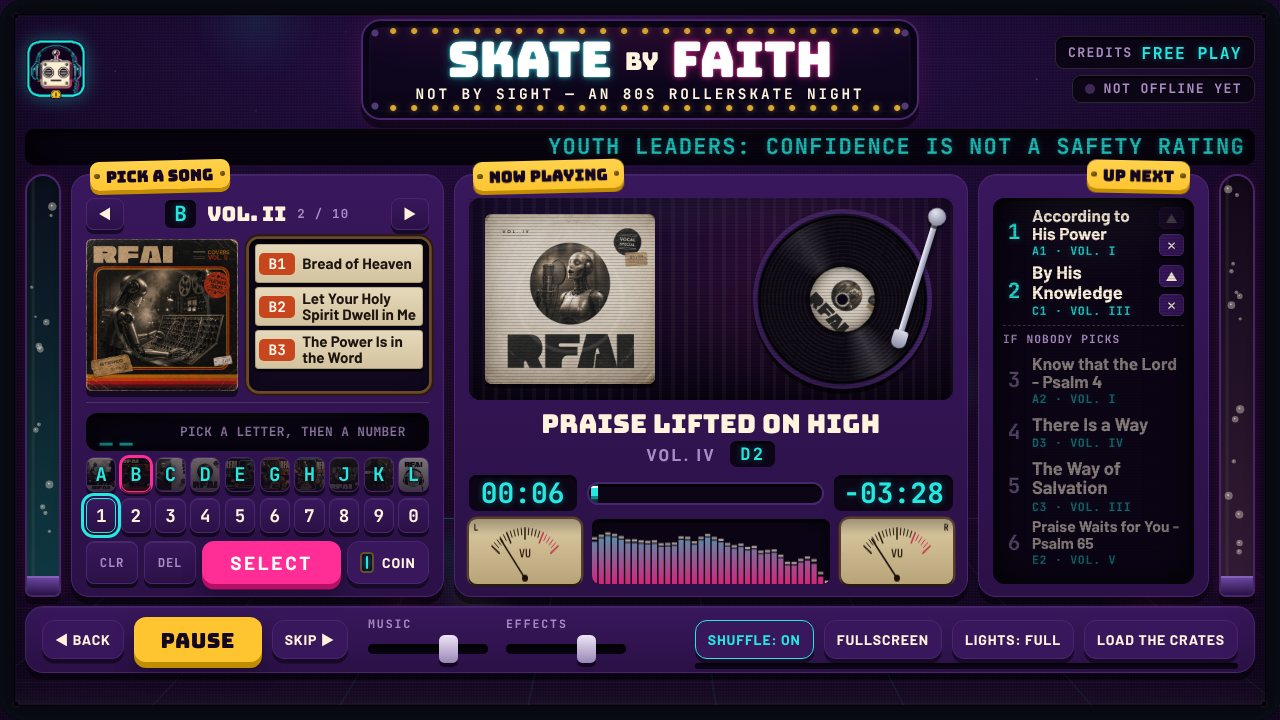
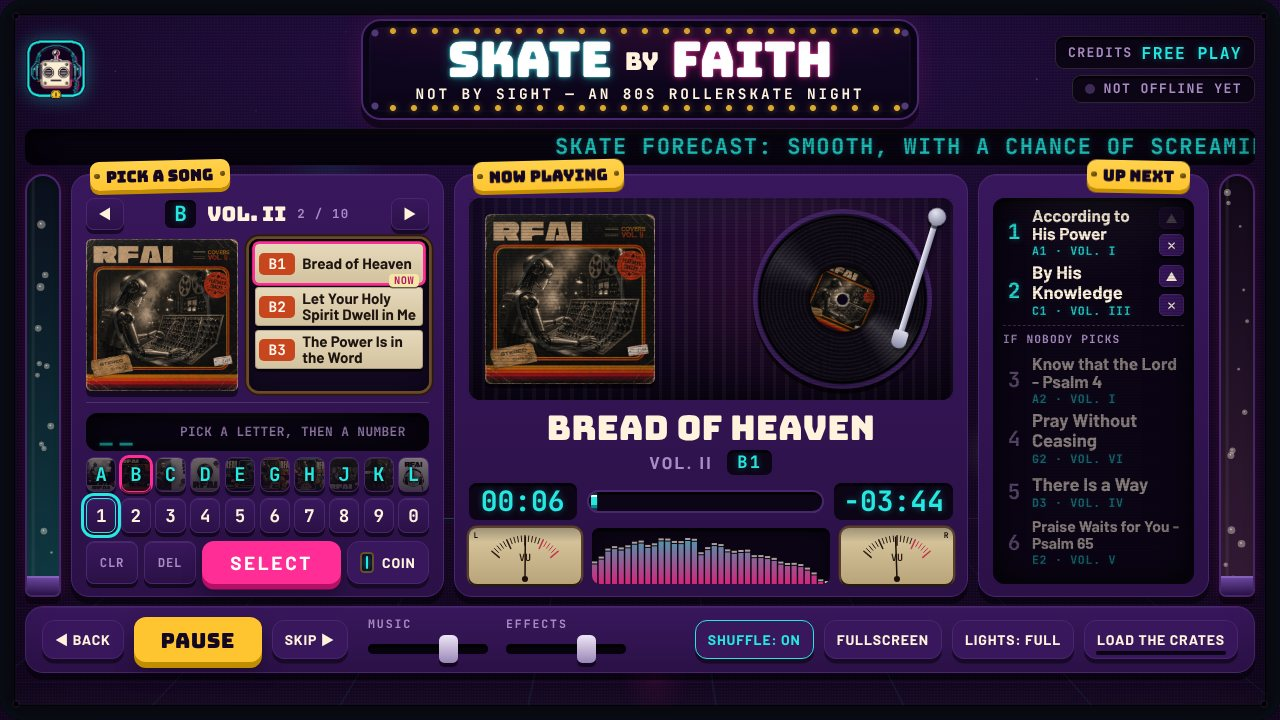
feat: livelier VU needles, flicker crackle, tidy crates meter
- VU meters read loudness in decibels from float samples, with the MUSIC
  slider taken back out (vuLevel in dsp.js). A typical song now sits just
  right of centre and swings with the beat at any volume, instead of
  barely leaving the stop.
- The screen flicker carries a faint electrical crackle, one per dip
  (sfx.flicker, or sfx/flicker.mp3 if supplied).
- The LOAD THE CRATES meter is a thin strip set into the foot of that
  button instead of a bar under the whole button row.

Claude-Session: https://claude.ai/code/session_019UepSTK4gBiwDTjkX8XKsc

diff --git a/visualiser.js b/visualiser.js
@@ -24,7 +24,7 @@
      - Every draw is wrapped: an error in one effect switches that effect
        off quietly instead of reaching the music.
    ============================================================ */
-import { groupBands, rmsFromTimeDomain, createEnvelope, createBeatGate } from './dsp.js';
+import { groupBands, rmsFromFloat, vuLevel, createEnvelope, createBeatGate } from './dsp.js';
 import { getEngine } from './audio.js';
 import { isCalm, onCalmChange, safely } from './fx.js';
 import { clamp } from './format.js';
@@ -70,8 +70,8 @@ export function createVisualiser() {
   const $ = (id) => document.getElementById(id);
   const engine = getEngine();
   const freq = engine ? new Uint8Array(engine.analyser.frequencyBinCount) : new Uint8Array(0);
-  const timeL = engine ? new Uint8Array(engine.analyserL.fftSize) : new Uint8Array(0);
-  const timeR = engine ? new Uint8Array(engine.analyserR.fftSize) : new Uint8Array(0);
+  const timeL = engine ? new Float32Array(engine.analyserL.fftSize) : new Float32Array(0);
+  const timeR = engine ? new Float32Array(engine.analyserR.fftSize) : new Float32Array(0);
 
   // ---- element handles
   const glow = $('cab-glow');
@@ -82,7 +82,7 @@ export function createVisualiser() {
   // ---- smoothing state
   const bassEnv = createEnvelope({ attackMs: 140, releaseMs: 420 });
   const energyEnv = createEnvelope({ attackMs: 200, releaseMs: 900 });
-  const vuEnv = [createEnvelope({ attackMs: 70, releaseMs: 380 }), createEnvelope({ attackMs: 70, releaseMs: 380 })];
+  const vuEnv = [createEnvelope({ attackMs: 60, releaseMs: 300 }), createEnvelope({ attackMs: 60, releaseMs: 300 })];   // about a real VU's 300 ms
   const kickGate = createBeatGate({ minGapMs: 340 });
   let bassAvg = 0;
   let kickUntil = 0;
@@ -286,11 +286,12 @@ export function createVisualiser() {
     let rmsR = 0;
     if (engine) {
       engine.analyser.getByteFrequencyData(freq);
-      engine.analyserL.getByteTimeDomainData(timeL);
-      engine.analyserR.getByteTimeDomainData(timeR);
+      engine.analyserL.getFloatTimeDomainData(timeL);
+      engine.analyserR.getFloatTimeDomainData(timeR);
       levels = groupBands(freq, BAR_COUNT);
-      rmsL = rmsFromTimeDomain(timeL);
-      rmsR = rmsFromTimeDomain(timeR);
+      const gain = engine.musicBus.gain.value;
+      rmsL = vuLevel(rmsFromFloat(timeL), gain);
+      rmsR = vuLevel(rmsFromFloat(timeR), gain);
     }
     let bass = 0;
     let total = 0;
@@ -310,8 +311,8 @@ export function createVisualiser() {
     // 3. draw (each guarded)
     safely('spectrum', () => drawSpectrum(levels, step));
     safely('vu', () => {
-      drawVu(vus[0], vuEnv[0].step(Math.pow(rmsL, 0.7) * 1.25, step), 'L');
-      drawVu(vus[1], vuEnv[1].step(Math.pow(rmsR, 0.7) * 1.25, step), 'R');
+      drawVu(vus[0], vuEnv[0].step(rmsL, step), 'L');
+      drawVu(vus[1], vuEnv[1].step(rmsR, step), 'R');
     });
     let tubeCol = null;
     safely('tubes', () => {

diff --git a/styles.css b/styles.css
@@ -710,7 +710,7 @@ body.on-attract .rig{ visibility:hidden; }
 }
 .deck-group{ display:flex; align-items:center; gap:.5rem; }
 .deck-faders{ gap:.9rem; }
-.deck-tools{ margin-left:auto; position:relative; }
+.deck-tools{ margin-left:auto; }
 .fader{ display:grid; gap:.2rem; font:700 .58rem var(--font-mono); letter-spacing:.16em; text-transform:uppercase; color:var(--dim); }
 input[type="range"]{ -webkit-appearance:none; appearance:none; width:6rem; height:1.4rem; margin:0; background:transparent; cursor:pointer; }
 input[type="range"]::-webkit-slider-runnable-track{ height:.5rem; border-radius:.3rem; background:var(--screen); box-shadow:var(--inset); }
@@ -720,7 +720,10 @@ input[type="range"]::-webkit-slider-thumb{
 }
 input[type="range"]::-moz-range-track{ height:.5rem; border-radius:.3rem; background:var(--screen); box-shadow:var(--inset); }
 input[type="range"]::-moz-range-thumb{ width:.95rem; height:1.4rem; border:0; border-radius:.28rem; background:linear-gradient(180deg,#EEE6F6,#9A86B8); box-shadow:0 .2rem 0 rgba(0,0,0,.55); }
-.crate-meter{ position:absolute; left:0; right:0; bottom:-.5rem; height:.32rem; border-radius:.2rem; background:var(--screen); overflow:hidden; box-shadow:inset 0 .08rem 0 rgba(0,0,0,.6); }
+/* the save meter is a thin LED strip set into the foot of the LOAD THE CRATES
+   button itself, so it lines up with nothing else and crowds nothing */
+.crate-unit{ position:relative; display:inline-flex; }
+.crate-meter{ position:absolute; left:.6rem; right:.6rem; bottom:.22rem; height:.18rem; border-radius:.1rem; background:var(--screen); overflow:hidden; pointer-events:none; box-shadow:inset 0 .05rem 0 rgba(0,0,0,.6); }
 .crate-meter i{ display:block; height:100%; transform:scaleX(0); transform-origin:left; background:var(--cyan); box-shadow:0 0 .5rem var(--cyan); transition:transform .3s linear; }
 
 /* ================= LEGEND, TOAST, MODAL ================= */

diff --git a/sound.js b/sound.js
@@ -10,17 +10,19 @@
      whirr    the record mechanism moving (gear sweep)
      thud     the needle dropping onto the record
      buzz     something is OUT OF ORDER / refused (low rude buzz)
+     flicker  the screen dipping (a faint electrical crackle)
 
    Your own recordings: put an MP3 named after the effect in the sfx/
    folder (sfx/coin.mp3, sfx/key.mp3, sfx/confirm.mp3, sfx/whirr.mp3,
-   sfx/thud.mp3, sfx/buzz.mp3) and it plays instead of the built-in sound.
+   sfx/thud.mp3, sfx/buzz.mp3, sfx/flicker.mp3) and it plays instead of the
+   built-in sound.
    Any effect without a file keeps the built-in one.
 
    Every effect is wrapped so a sound failure can never stop the music.
    ============================================================ */
 import { getEngine } from './audio.js';
 
-export const SFX_NAMES = ['coin', 'key', 'confirm', 'whirr', 'thud', 'buzz'];
+export const SFX_NAMES = ['coin', 'key', 'confirm', 'whirr', 'thud', 'buzz', 'flicker'];
 const rawFiles = new Map();      // name -> the MP3's bytes (fetched at page load)
 const buffers = new Map();       // name -> decoded sound, ready to play
 let fetching = null;
@@ -161,5 +163,16 @@ export const sfx = {
     if (playFile('buzz')) return;
     tone({ freq: 120, to: 54, type: 'sawtooth', dur: 0.32, peak: 0.3 });
     tone({ freq: 62, to: 44, type: 'square', dur: 0.32, peak: 0.2 });
+  }),
+
+  // Quiet on purpose: the room should half-notice it, never be startled.
+  flicker: safe((dipStartsMs = [0]) => {
+    if (playFile('flicker')) return;
+    for (const ms of dipStartsMs) {
+      const at = ms / 1000;
+      thump({ freq: 3400, dur: 0.035, peak: 0.07, at });                          // the spark
+      tone({ freq: 118, to: 96, type: 'sawtooth', dur: 0.14, peak: 0.035, at });  // mains hum sagging
+      thump({ freq: 900, dur: 0.06, peak: 0.04, at: at + 0.03 });
+    }
   }),
 };

diff --git a/dsp.js b/dsp.js
@@ -44,6 +44,30 @@ export function rmsFromTimeDomain(bytes) {
   return Math.min(1, Math.sqrt(sum / n));
 }
 
+/* Same, from the analyser's float samples (-1..1): finer than 8-bit bytes,
+   which matters for the quiet passages a VU needle should still show. */
+export function rmsFromFloat(samples) {
+  const n = samples.length;
+  if (n === 0) return 0;
+  let sum = 0;
+  for (let i = 0; i < n; i++) sum += samples[i] * samples[i];
+  return Math.min(1, Math.sqrt(sum / n));
+}
+
+/* Where a VU needle sits (0 = far left, 1 = pinned right) for a loudness.
+   Read on a decibel scale like a real meter, with the MUSIC slider taken back
+   out (the analyser listens after it), so the needles swing the same at any
+   volume. Typical mastered songs average about -18 dBFS: that lands near the
+   middle of the scale, and the loud beats push into the red. */
+export const VU_FLOOR_DB = -30;
+export const VU_TOP_DB = -12;
+export function vuLevel(rms, busGain = 1) {
+  const level = rms / Math.max(busGain, 0.05);
+  if (!(level > 0)) return 0;
+  const db = 20 * Math.log10(level);
+  return Math.min(1, Math.max(0, (db - VU_FLOOR_DB) / (VU_TOP_DB - VU_FLOOR_DB)));
+}
+
 /* A follower that rises quickly and falls slowly, like a VU meter. */
 export function createEnvelope({ attackMs, releaseMs }) {
   let value = 0;

diff --git a/lights.js b/lights.js
@@ -37,10 +37,12 @@ export function planFlicker(rng = Math.random) {
   const between = (lo, hi) => lo + rng() * (hi - lo);
   const dips = rng() < 0.45 ? 2 : 1;
   const steps = [{ t: 0, o: 0 }];
+  const dipStartsMs = [];
   let t = 0;
   for (let i = 0; i < dips; i++) {
     if (i > 0) { t += between(110, 190); steps.push({ t, o: 0 }); }   // back on briefly between the two dips
     const depth = between(0.3, FLICKER.maxDim);
+    dipStartsMs.push(Math.round(t));
     t += 45; steps.push({ t, o: depth });               // drop
     t += between(30, 160); steps.push({ t, o: depth * 0.8 });   // hold (a long hold reads as the screen blinking off)
     t += 70; steps.push({ t, o: 0 });                   // recover
@@ -48,6 +50,7 @@ export function planFlicker(rng = Math.random) {
   const duration = Math.round(t);
   return {
     dips,
+    dipStartsMs,                                       // when each dip begins (for the electrical crackle)
     duration,
     keyframes: steps.map((s) => ({ opacity: Number(s.o.toFixed(3)), offset: t ? s.t / t : 0 })),
     nextInMs: Math.round(between(FLICKER.minGapMs, FLICKER.maxGapMs)),

diff --git a/index.html b/index.html
@@ -185,8 +185,10 @@
       <button type="button" class="btn btn-deck" id="btn-shuffle" aria-pressed="true" title="Shuffle: every song plays once before any repeats (S). Off = play in the order of tracks.js">SHUFFLE: ON</button>
       <button type="button" class="btn btn-deck" id="btn-fs" title="Fullscreen (F)">FULLSCREEN</button>
       <button type="button" class="btn btn-deck" id="btn-lights" aria-pressed="false">LIGHTS: FULL</button>
-      <button type="button" class="btn btn-deck" id="btn-crates">LOAD THE CRATES</button>
-      <div class="crate-meter" id="crate-meter" aria-hidden="true"><i id="crate-fill"></i></div>
+      <span class="crate-unit">
+        <button type="button" class="btn btn-deck" id="btn-crates">LOAD THE CRATES</button>
+        <span class="crate-meter" id="crate-meter" aria-hidden="true"><i id="crate-fill"></i></span>
+      </span>
     </div>
   </footer>
 

diff --git a/tests/dsp.test.js b/tests/dsp.test.js
@@ -84,3 +84,15 @@ test('slewTo limits how far a value can move per frame', () => {
   assert.equal(slewTo(1, 0, 0.1), 0.9);
   assert.equal(slewTo(0.5, 0.52, 0.1), 0.52);
 });
+
+test('vuLevel reads loudness in decibels and ignores the MUSIC slider', async () => {
+  const { vuLevel, rmsFromFloat } = await import('../dsp.js');
+  const at = (db) => 10 ** (db / 20);
+  assert.equal(vuLevel(0), 0);
+  assert.equal(vuLevel(at(-40)), 0, 'very quiet rests on the stop');
+  assert.ok(vuLevel(at(-18)) > 0.5 && vuLevel(at(-18)) < 0.75, 'a typical song sits just right of middle, like 0 VU');
+  assert.ok(vuLevel(at(-12)) > 0.8, 'loud beats reach the red');
+  assert.equal(vuLevel(at(-3)), 1);
+  assert.ok(Math.abs(vuLevel(at(-18) * 0.4, 0.4) - vuLevel(at(-18))) < 1e-9, 'same needle at any volume');
+  assert.ok(Math.abs(rmsFromFloat(new Float32Array([0.5, -0.5, 0.5, -0.5])) - 0.5) < 1e-9);
+});

diff --git a/fx.js b/fx.js
@@ -60,13 +60,15 @@ export const delay = (ms) => new Promise((r) => setTimeout(r, ms));
 
 /* The whole monitor dips now and then (planFlicker in lights.js holds the
    safety rules). Skipped in CALM and while the tab is hidden. */
-export function startScreenFlicker(layer) {
+export function startScreenFlicker(layer, { onBurst } = {}) {
   if (!layer || typeof layer.animate !== 'function') return;
   const next = () => {
     const plan = planFlicker();
     setTimeout(() => {
       safely('screen-flicker', () => {
-        if (!calm && !document.hidden) layer.animate(plan.keyframes, { duration: plan.duration, easing: 'linear' });
+        if (calm || document.hidden) return;
+        layer.animate(plan.keyframes, { duration: plan.duration, easing: 'linear' });
+        if (onBurst) onBurst(plan);
       });
       next();
     }, plan.nextInMs);

diff --git a/tests/safety.test.js b/tests/safety.test.js
@@ -47,6 +47,7 @@ test('the screen flicker is photosensitive-safe', async () => {
     const plan = planFlicker(rng);
     const peaks = plan.keyframes.filter((k) => k.opacity > 0);
     assert.ok(plan.dips >= 1 && plan.dips <= 2, 'one or two dips per burst');
+    assert.equal(plan.dipStartsMs.length, plan.dips, 'one crackle per dip');
     assert.ok(plan.duration < 1000, 'a burst is over within a second, so it holds at most 2 flashes');
     assert.ok(plan.nextInMs >= FLICKER.minGapMs, 'bursts are far apart');
     assert.ok(Math.max(...peaks.map((k) => k.opacity)) <= FLICKER.maxDim, 'never goes more than 60% dark');

diff --git a/app.js b/app.js
@@ -64,7 +64,7 @@ async function loadLibrary() {
 async function main() {
   initLights();
   preloadSfxFiles();                                 // any sfx/*.mp3 recordings, fetched early
-  safely('screen-flicker', () => startScreenFlicker(document.getElementById('crt-flicker')));
+  safely('screen-flicker', () => startScreenFlicker(document.getElementById('crt-flicker'), { onBurst: (plan) => sfx.flicker(plan.dipStartsMs) }));
   $('btn-lights').addEventListener('click', () => { flipLights(); sfx.key(); });
 
   // Boot overlay is opaque from first paint; the machine assembles behind it.

diff --git a/DESIGN.md b/DESIGN.md
@@ -26,13 +26,19 @@ else gets invented without extending this list first.
   recessed near-black CRT display for anything with a number or a queue on it.
   Inset shadow, scanlines and a curved-glass highlight. Numbers are
   `JetBrains Mono` tabular.
+- **VU meters** read loudness on a decibel scale like a real meter
+  (`vuLevel` in `dsp.js`: -30 dBFS at the left stop, -12 dBFS pinned right,
+  float samples, about 300 ms ballistics) with the MUSIC slider taken back out,
+  so a typical song sits just right of centre and the beats swing it at any
+  volume.
 - **Monitor glass** (`.crt-glass`, `.crt-flicker`) - effects of the projector
   "screen" itself, so they cover the whole page inside the bezel, never one
   panel at a time: one faint bright band rolling down the whole screen
   (`crt-roll`, 9 s), and now and then the whole screen dips like an old monitor
   on a tired supply (`startScreenFlicker` in `fx.js`, planned by `planFlicker`
   in `lights.js`): one or two dips, at most 60% darker, under a second, bursts
-  25-70 s apart, never in CALM.
+  25-70 s apart, never in CALM. Each dip carries a faint electrical crackle
+  (`sfx.flicker`).
 - **Title tab** (`.panel-title`, `.tab`) - a gold tab "screwed on" to the top
   edge of a panel at a slight tilt, alternating direction (`.tab-tilt-a` /
   `.tab-tilt-b`) so no two look mass-produced.
@@ -337,6 +343,7 @@ on INSERT COIN is the browser's required gesture.
 | `whirr` | The record mechanism moving |
 | `thud` | The needle lands on the record |
 | `buzz` | Something is out of order / refused |
+| `flicker` | The screen dips - a faint electrical crackle, one per dip, quiet on purpose |
 
 Do not reuse one for another moment, and do not add an effect without a
 one-sentence reason a skater would recognise.

diff --git a/README.md b/README.md
@@ -195,7 +195,7 @@ place; follow these steps only if you want to swap it for a new one.
 
 - [ ] Open the site in **Google Chrome** (best supported).
 - [ ] Press **INSERT COIN** (click it, or press any key).
-- [ ] Press **LOAD THE CRATES** (bottom right). The meter fills and the little
+- [ ] Press **LOAD THE CRATES** (bottom right). The thin strip along the bottom of that button fills and the little
       light at the top right changes to **OFFLINE READY**. This saves every
       song on the laptop so the night runs even if the venue wifi dies. Press it
       again after you add songs.
